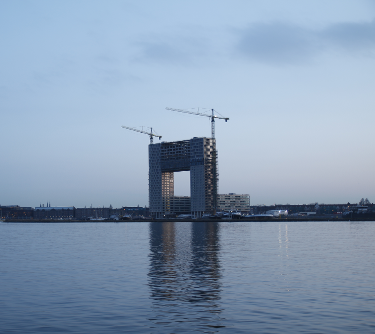
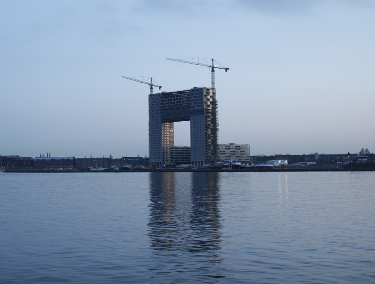
Full seam-carving add

diff --git a/src/Main.kt b/src/Main.kt
@@ -116,6 +116,29 @@ fun removeFromSeam(image: BufferedImage, path: List<XY>, pixelsToRemove: Int): B
     return modifiedImage
 }
 
+fun getCropped(image: BufferedImage, outputSize: Int): BufferedImage {
+    var gradientImage: GradientImage
+    var energies: Array<DoubleArray>
+    var shortestSeam: List<XY>
+    var output = image
+
+    while (output.width != outputSize) {
+        val widthToRemove = output.width - outputSize
+        gradientImage = GradientImage(output)
+        energies = Array(output.height) { DoubleArray(output.width) }
+        repeat(output.height) { height ->
+            repeat(output.width) { width ->
+                val energy = gradientImage.energy(width, height)
+                energies[height][width] = energy
+            }
+        }
+        shortestSeam = findShortestPath(energies)
+        output = removeFromSeam(output, shortestSeam, widthToRemove)
+    }
+
+    return output
+}
+
 fun main(args: Array<String>) {
     var image = readImage(basePath + args[1])
     val outputFileName = "./${args[3]}"
@@ -129,19 +152,8 @@ fun main(args: Array<String>) {
     var energies: Array<DoubleArray>
     var shortestSeam: List<XY>
 
-    while (image.width != outputWidth) {
-        widthToRemove = image.width - outputWidth
-        gradientImage = GradientImage(image)
-        energies = Array(image.height) { DoubleArray(image.width) }
-        repeat(image.height) { height ->
-            repeat(image.width) { width ->
-                val energy = gradientImage.energy(width, height)
-                energies[height][width] = energy
-            }
-        }
-        shortestSeam = findShortestPath(energies)
-        image = removeFromSeam(image, shortestSeam, widthToRemove)
-    }
+    image = getCropped(image, outputWidth)
+    image = rotateImage(getCropped(rotateImage(image), outputHeight))
 
     writeImage(image, outputFileName)
 }
